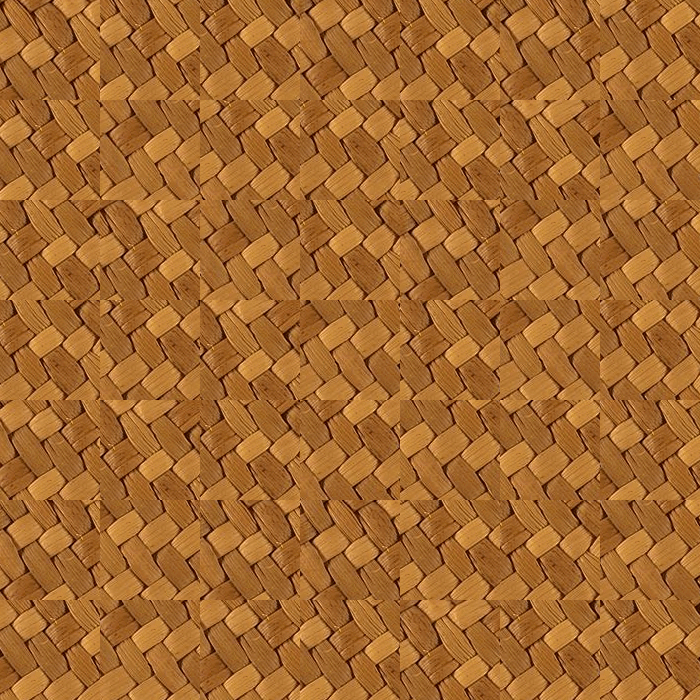
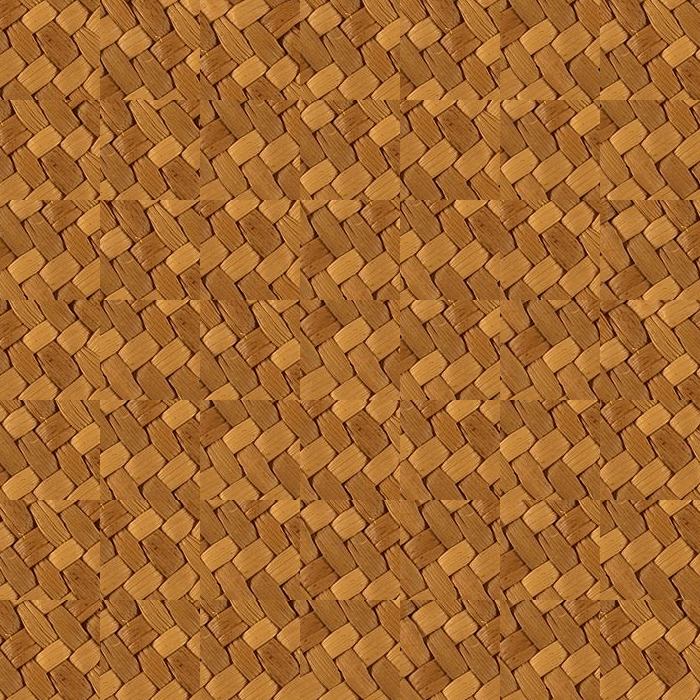
fixed edge cases

diff --git a/src/quilting.cpp b/src/quilting.cpp
@@ -5,23 +5,33 @@
 #include <iostream>
 #include <cstdlib>
 
+using namespace std;
+
 // random placement of blocks
 FloatImage quilt_random(const FloatImage &sample, int outsize, int patchsize) {
-    FloatImage output(outsize, outsize, sample.channels());
+
+    // Make sure patchsize is smaller than sample dimensions
+    if (patchsize > sample.width() || patchsize > sample.height()) {
+      cout << "Error: Patch size must be smaller the sample image dimensions." << endl;
+      exit (1);
+    }
+
+    FloatImage output(outsize, outsize, sample.channels()); // initialize output image
     srand(time(NULL)); // seed the random number generator
 
     // loop over output image by intervals of the patch size
     for (int x = 0; x <= output.width() - patchsize; x += patchsize) {
         for (int y = 0; y <= output.height() - patchsize; y += patchsize) {
-                // randomly pick a patch from sample image by defining its origin (top-left) pixel (making sure the patch won't go out of bands)
-                int patch_x0 = rand() % (sample.width() - patchsize + 1);
-                int patch_y0 = rand() % (sample.height() - patchsize + 1);
-            for (int c = 0; c < output.channels(); c++) {
 
-                // loop over the patch area in the output image and populate it with the corresponding pixels of the randomly sampled patch
-                for (int x1 = x; x1 < x + patchsize; x1++) {
-                    for (int y1 = y; y1 < y + patchsize; y1++) {
-                        output(x1, y1, c) = sample(patch_x0 + x1 - x, patch_y0 + y1 - y, c);
+            // randomly pick a patch from sample image by defining its origin (top-left) pixel (making sure the patch won't go out of bands)
+            int patch_x0 = rand() % (sample.width() - patchsize + 1);
+            int patch_y0 = rand() % (sample.height() - patchsize + 1);
+
+            // loop over the patch area in the output image and populate it with the corresponding pixels of the randomly sampled patch
+            for (int x1 = x; x1 < x + patchsize; x1++) {
+                for (int y1 = y; y1 < y + patchsize; y1++) {
+                    for (int c = 0; c < output.channels(); c++) {
+                      output(x1, y1, c) = sample(patch_x0 + x1 - x, patch_y0 + y1 - y, c);
                     }
                 }
             }

diff --git a/src/quilting_main.cpp b/src/quilting_main.cpp
@@ -8,15 +8,18 @@ void testRandomQuilting()
 {
     FloatImage stones_sample(DATA_DIR "/input/stones.png");
     FloatImage mat_sample(DATA_DIR "/input/mat.png");
+    FloatImage text_sample(DATA_DIR "/input/text.png");
     
     int outsize = 700;
     int patchsize = 100;
 
     FloatImage stones_random = quilt_random(stones_sample, outsize, patchsize);
     FloatImage mat_random = quilt_random(mat_sample, outsize, patchsize);
+    FloatImage text_random = quilt_random(text_sample, outsize, patchsize);
 
     stones_random.write(DATA_DIR "/output/stones_random_synthesis.png");
     mat_random.write(DATA_DIR "/output/mat_random_synthesis.png");
+    text_random.write(DATA_DIR "/output/text_random_synthesis.png");
 }
 
 // //test texture synthesis with simple quilting (overlapping method)
